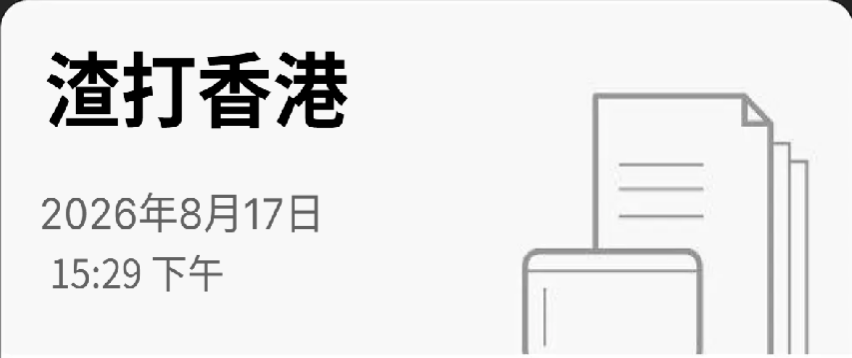
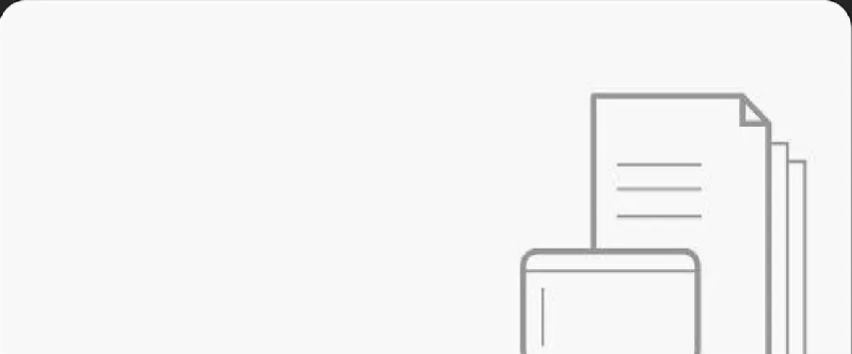
fix: make A2 header text editable

diff --git a/styles.css b/styles.css
@@ -258,7 +258,11 @@ h1 { margin: 0; font: 750 clamp(25px, 3vw, 36px)/1.05 Georgia, "Noto Serif TC", 
 
 .inbox-screen { height: calc(100% - 54px); padding: 10px 18px 68px; background: #242424; }
 .inbox-card { height: 100%; overflow: hidden; border-radius: 12px; background: #fff; }
-.inbox-header-source { width: 100%; height: auto; display: block; border-radius: 12px 12px 0 0; }
+.inbox-header { position: relative; aspect-ratio: 852 / 354; overflow: hidden; border-radius: 12px 12px 0 0; background: #f8f8f8; }
+.inbox-header-source { position: absolute; inset: 0; width: 100%; height: 100%; display: block; object-fit: cover; }
+.inbox-header-copy { position: absolute; top: 22px; left: 18px; }
+.inbox-header-copy h3 { margin: 0 0 18px; color: #050505; font-size: 29px; line-height: 1; }
+.inbox-header-copy p { margin: 0; color: #666; font-size: 17px; line-height: 1.45; }
 .inbox-message { margin: 0; padding: 29px 18px; color: #050505; font-size: 20px; font-weight: 700; line-height: 1.35; }
 
 .transfer-screen { height: calc(100% - 54px); padding-bottom: 68px; background: #f4fafb; }

diff --git a/app.js b/app.js
@@ -105,7 +105,13 @@
       </div>
       <main class="inbox-screen">
         <article class="inbox-card">
-          <img class="inbox-header-source" src="assets/source-icons/a2-inbox-header.png" alt="渣打香港收件箱通知顶部">
+          <header class="inbox-header">
+            <img class="inbox-header-source" src="assets/source-icons/a2-inbox-header.png" alt="文件与文件盒背景图">
+            <div class="inbox-header-copy">
+              <h3>${value("institutionName")}</h3>
+              <p>${arrival.dateChinese}<br>${arrival.meridiemTime}</p>
+            </div>
+          </header>
           <p class="inbox-message">${value("institutionName")}：您从 ${value("payerName")} 收到<br>${currencyCode()}${plainAmount()}.日期:${arrival.dateMdy}.</p>
         </article>
       </main>`;
